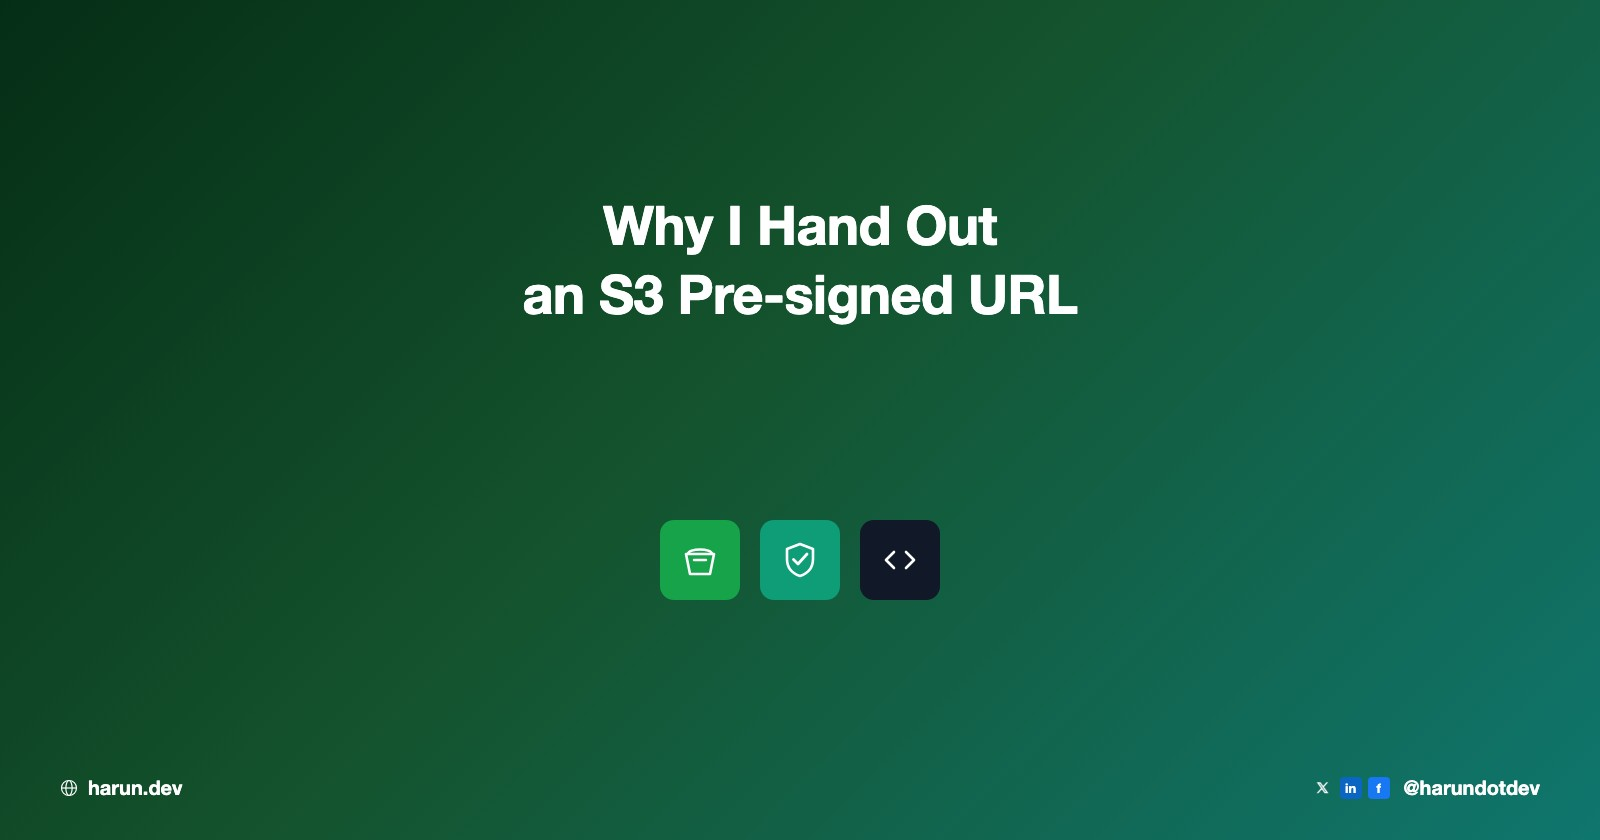
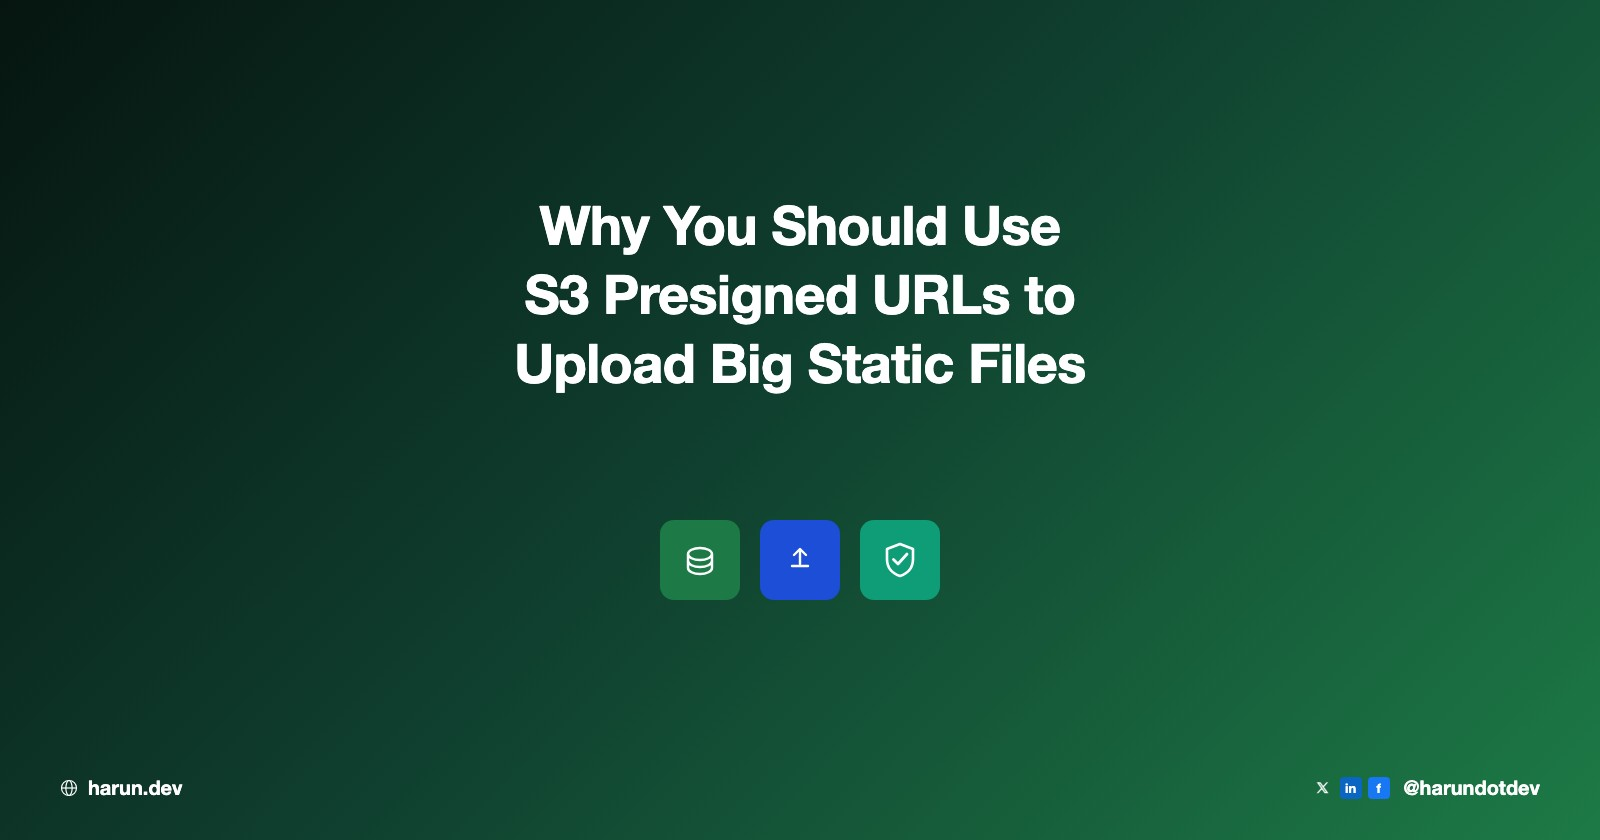
Let readers choose the API request or the big-file upload.
The title is now about uploading big static files, and Browser or API stays selected instead of flipping back after one request.

diff --git a/resources/js/Components/BlogActivities/PresignedUrlActivity.tsx b/resources/js/Components/BlogActivities/PresignedUrlActivity.tsx
@@ -18,70 +18,41 @@ type Beat = {
 
 const SPEEDS = [0.5, 1, 2] as const
 
-const BEATS: Beat[] = [
-  {
-    id: 'direct',
-    actor: 'browser',
-    tone: 'deny',
-    title: 'The upload has no signature',
-    caption: 'The browser tries to PUT 240 MB straight to S3. No signature, so S3 answers 403. The file stays on the device.',
-  },
+const CYCLE: Beat[] = [
   {
     id: 'sign',
     actor: 'api',
     tone: 'sign',
-    title: 'The API signs one PUT',
-    caption: 'The API holds the credentials. It signs one PUT, one key, one Content-Type, and a short expiry. The 240 MB file does not pass through the API.',
+    title: 'The API request signs the PUT',
+    caption: 'You send a PUT. The API holds the credentials and signs one key, one Content-Type, and a short expiry. The 240 MB file does not move.',
   },
   {
     id: 'upload',
     actor: 'browser',
     tone: 'ok',
-    title: 'The file lands on S3',
-    caption: 'The browser uploads those 240 MB to the signed URL. The API is not in the middle. S3 answers 200.',
-  },
-  {
-    id: 'expired',
-    actor: 'browser',
-    tone: 'deny',
-    title: 'The same URL is dead',
-    caption: 'The expiry passed. The browser tries the same upload and S3 answers 403.',
-  },
-  {
-    id: 'public',
-    actor: 'browser',
-    tone: 'ok',
-    title: 'A public bucket stays open',
-    caption: 'With no signature, the browser can still PUT the file, and it could tomorrow too. That is the bucket policy I do not want on a customer export.',
+    title: 'The browser uploads the big file',
+    caption: 'The browser PUTs the 240 MB static file to that URL. The API is not in the middle. S3 answers 200.',
   },
 ]
 
-function nextBeat(landed: Beat[], forced: Actor | null): Beat {
-  if (forced === 'api') {
-    return BEATS[1]
+const BROWSER_DENIED: Beat = {
+  id: 'direct',
+  actor: 'browser',
+  tone: 'deny',
+  title: 'The upload has no signature',
+  caption: 'Browser is selected, and no PUT has been signed yet. S3 answers 403. Choose API to sign the request, then come back.',
+}
+
+function nextBeat(landed: Beat[], choice: 'cycle' | Actor): Beat {
+  if (choice === 'api') {
+    return CYCLE[0]
   }
 
-  if (forced === 'browser') {
-    const sawSign = landed.some((beat) => beat.id === 'sign')
-    const sawUpload = landed.some((beat) => beat.id === 'upload')
-    const sawExpired = landed.some((beat) => beat.id === 'expired')
-
-    if (!sawSign) {
-      return BEATS[0]
-    }
-
-    if (!sawUpload) {
-      return BEATS[2]
-    }
-
-    if (!sawExpired) {
-      return BEATS[3]
-    }
-
-    return BEATS[4]
+  if (choice === 'browser') {
+    return landed.some((beat) => beat.id === 'sign') ? CYCLE[1] : BROWSER_DENIED
   }
 
-  return BEATS[landed.length % BEATS.length]
+  return CYCLE[landed.length % CYCLE.length]
 }
 
 function Packet({ duration, file = false }: { duration: number; file?: boolean }) {
@@ -210,13 +181,13 @@ export default function PresignedUrlActivity() {
   const [auto, setAuto] = useState(false)
   const [speed, setSpeed] = useState<(typeof SPEEDS)[number]>(1)
   const [landed, setLanded] = useState<Beat[]>([])
-  const [forced, setForced] = useState<Actor | null>(null)
+  const [choice, setChoice] = useState<'cycle' | Actor>('cycle')
   const [flight, setFlight] = useState<{ beat: Beat; phase: Phase } | null>(null)
   const hopSeconds = (reducedMotion ? 0.01 : 0.42) / speed
-  const upcoming = nextBeat(landed, forced)
-  const browserHot = flight?.beat.actor === 'browser' || (!flight && (forced === 'browser' || upcoming.actor === 'browser'))
-  const apiHot = flight?.beat.actor === 'api' || (!flight && (forced === 'api' || (forced === null && upcoming.actor === 'api')))
-  const publicObject = flight?.beat.id === 'public' || (!flight && landed[landed.length - 1]?.id === 'public')
+  const upcoming = nextBeat(landed, choice)
+  const activeActor = flight?.beat.actor ?? upcoming.actor
+  const browserSelected = choice === 'browser'
+  const apiSelected = choice === 'api'
   const browserBars = landed.filter((beat) => beat.actor === 'browser')
   const apiBars = landed.filter((beat) => beat.actor === 'api')
   const s3Bars = landed.filter((beat) => beat.actor === 'browser')
@@ -226,7 +197,7 @@ export default function PresignedUrlActivity() {
     : {
         id: 'empty',
         title: 'No requests yet',
-          caption: 'The Browser button uploads the file. The API button signs one PUT. The file stacks on S3 when the upload lands.',
+          caption: 'Pick Browser or API to stay on that side. Leave them and the cycle signs the PUT, then uploads the 240 MB file.',
         durationMs: 1,
       }
 
@@ -254,18 +225,16 @@ export default function PresignedUrlActivity() {
   }, [reducedMotion])
 
   useEffect(() => {
-    if (flight || (!auto && !forced)) {
+    if (flight || (!auto && choice === 'cycle')) {
       return
     }
 
     const timer = window.setTimeout(() => {
-      const beat = nextBeat(landed, forced)
-      setForced(null)
-      setFlight({ beat, phase: 'you' })
-    }, forced ? 40 : 180 / speed)
+      setFlight({ beat: nextBeat(landed, choice), phase: 'you' })
+    }, choice === 'cycle' ? 180 / speed : 40)
 
     return () => window.clearTimeout(timer)
-  }, [auto, flight, forced, landed, speed])
+  }, [auto, choice, flight, landed, speed])
 
   useEffect(() => {
     if (!flight) {
@@ -305,7 +274,7 @@ export default function PresignedUrlActivity() {
   return (
     <div ref={rootRef}>
       <BlogActivityFrame
-        title="Uploading a 240 MB file"
+        title="Uploading a big static file"
         steps={[step]}
         playback={false}
         renderStage={() => (
@@ -326,9 +295,9 @@ export default function PresignedUrlActivity() {
               </div>
 
               <div className={`flex w-48 flex-col items-center rounded-2xl px-4 py-4 text-center text-white ${flight && flight.phase !== 'you' ? 'bg-sky-600' : 'bg-slate-950'}`}>
-                <p className="!my-0 text-xs text-sky-100">{(flight?.beat.actor ?? upcoming.actor) === 'api' ? 'API' : 'Browser'}</p>
+                <p className="!my-0 text-xs text-sky-100">PUT</p>
                 <p className="!my-0 mt-1 text-sm font-semibold leading-5">
-                  {(flight?.beat.actor ?? upcoming.actor) === 'api' ? 'Signs the PUT' : 'Uploads the file'}
+                  {activeActor === 'api' ? 'API request' : 'Upload the file'}
                 </p>
               </div>
 
@@ -359,7 +328,7 @@ export default function PresignedUrlActivity() {
                 />
                 <Column
                   name="S3"
-                  note={publicObject ? 'public' : 'private'}
+                  note="private"
                   hot={flight?.phase === 's3'}
                   count={s3Bars.length}
                   bars={s3Bars}
@@ -377,10 +346,14 @@ export default function PresignedUrlActivity() {
                   <button
                     type="button"
                     data-activity-actor="browser"
-                    aria-pressed={browserHot}
-                    onClick={() => setForced('browser')}
+                    aria-pressed={browserSelected}
+                    onClick={() => setChoice((current) => (current === 'browser' ? 'cycle' : 'browser'))}
                     className={`rounded-full px-3 py-1.5 text-xs font-semibold ${
-                      browserHot ? 'bg-slate-950 text-white' : 'border border-slate-200 text-slate-700'
+                      browserSelected
+                        ? 'bg-slate-950 text-white'
+                        : choice === 'cycle' && activeActor === 'browser'
+                          ? 'border border-sky-500 bg-sky-50 text-sky-950'
+                          : 'border border-slate-200 text-slate-700'
                     }`}
                   >
                     Browser
@@ -388,10 +361,14 @@ export default function PresignedUrlActivity() {
                   <button
                     type="button"
                     data-activity-actor="api"
-                    aria-pressed={apiHot}
-                    onClick={() => setForced('api')}
+                    aria-pressed={apiSelected}
+                    onClick={() => setChoice((current) => (current === 'api' ? 'cycle' : 'api'))}
                     className={`rounded-full px-3 py-1.5 text-xs font-semibold ${
-                      apiHot ? 'bg-slate-950 text-white' : 'border border-slate-200 text-slate-700'
+                      apiSelected
+                        ? 'bg-slate-950 text-white'
+                        : choice === 'cycle' && activeActor === 'api'
+                          ? 'border border-sky-500 bg-sky-50 text-sky-950'
+                          : 'border border-slate-200 text-slate-700'
                     }`}
                   >
                     API
@@ -420,7 +397,7 @@ export default function PresignedUrlActivity() {
                 onClick={() => {
                   setFlight(null)
                   setLanded([])
-                  setForced(null)
+                  setChoice('cycle')
                 }}
               >
                 <svg width="14" height="14" viewBox="0 0 14 14" fill="none" aria-hidden="true">
@@ -429,7 +406,13 @@ export default function PresignedUrlActivity() {
                 </svg>
               </IconButton>
             </div>
-            <p className="!my-0 mt-2 text-xs text-slate-500">Rose on S3 is a rejected upload. The tall green bar is the 240 MB file. Sky on the API is the signed PUT.</p>
+            <p className="!my-0 mt-2 text-xs text-slate-500">
+              {choice === 'api'
+                ? 'API stays selected. Each request signs a PUT. The big file does not move.'
+                : choice === 'browser'
+                  ? 'Browser stays selected. Each request uploads the 240 MB file.'
+                  : 'Full cycle: the API signs the PUT, then the browser uploads the file. Pick Browser or API to stay there.'}
+            </p>
           </div>
         )}
       />

diff --git a/tests/Feature/InteractiveBlogDraftsTest.php b/tests/Feature/InteractiveBlogDraftsTest.php
@@ -31,8 +31,9 @@ class InteractiveBlogDraftsTest extends TestCase
             );
 
             if ($slug === 'why-s3-presigned-urls') {
-                $this->assertStringContainsString('The Browser button uploads the file', $hydrated['content']['html']);
-                $this->assertStringContainsString('The API button signs one PUT', $hydrated['content']['html']);
+                $this->assertSame('Why You Should Use S3 Presigned URLs to Upload Big Static Files', $post['title']);
+                $this->assertStringContainsString('Choose Browser or API and it stays on that side', $hydrated['content']['html']);
+                $this->assertStringContainsString('the API request signs the PUT', $hydrated['content']['html']);
                 $this->assertStringNotContainsString('Who can fetch the object', $hydrated['content']['html']);
                 $this->assertStringNotContainsString('Make the object public', $hydrated['content']['html']);
             }

diff --git a/resources/blog/posts/why-s3-presigned-urls.md b/resources/blog/posts/why-s3-presigned-urls.md
@@ -1,7 +1,7 @@
 ---
-title: "Why I Hand Out an S3 Pre-signed URL"
+title: "Why You Should Use S3 Presigned URLs to Upload Big Static Files"
 slug: "why-s3-presigned-urls"
-brief: "A 240 MB upload, a PUT that works once, and the public bucket that would still accept the file tomorrow."
+brief: "A 240 MB static file, an API request that signs one PUT, and a browser upload that never passes through the API."
 publishedAt: "2099-06-01T18:00:00.000Z"
 draft: true
 draftToken: "9383e96dda32884b6cbeb006fd6c4024"
@@ -19,11 +19,11 @@ tags:
     slug: security
 ---
 
-<p>Someone needed to upload a 240 MB export from a phone. The fast fix was a bucket policy with <code>Principal: "*"</code>. The upload worked. So did every other key in the bucket, for as long as that policy stayed.</p>
+<p>A 240 MB zip, a video, a pile of images. That is a static file. Someone needed it on S3 from a phone. The fast fix was a bucket policy with <code>Principal: "*"</code>. The upload worked. So did every other key in the bucket, for as long as that policy stayed.</p>
 
-<p>A pre-signed URL is the narrower tool. The API signs one PUT. The browser uploads the file straight to S3. The object stays private.</p>
+<p>A pre-signed URL is the narrower tool. The API request signs one PUT. The browser uploads the big file straight to S3. The object stays private.</p>
 
-<p>The figure starts sending when it is on screen. The Browser button uploads the file. The API button signs one PUT. A request leaves you, lights the box it is in, and the file stacks on S3 when the upload lands. Speed and reset sit at the bottom.</p>
+<p>The figure runs that cycle when it is on screen. First the API request signs the PUT. Then the browser uploads the 240 MB file. Choose Browser or API and it stays on that side. Speed and reset sit at the bottom.</p>
 
 <div data-blog-activity="s3-presigned-url"></div>
 
@@ -43,10 +43,10 @@ tags:
 
 <h2>The public object</h2>
 
-<p>The last upload in the loop has no signature because the bucket is public. The browser puts the file on S3 and gets 200, and the next day would too. Block Public Access on the account is there because this fix keeps coming back.</p>
+<p>I do not open the bucket to get a big static file uploaded. A public bucket would accept that PUT tomorrow, and every other key too. Block Public Access on the account is there because this fix keeps coming back.</p>
 
 <p>I still make an object public when it is meant to be public: a cover image, a package on a CDN, something I would put on a website without a login. A customer's export is not that.</p>
 
-<p>The 240 MB file in the figure goes from the browser to S3. The API signs and then gets out of the way. That matters once the file is a few hundred megabytes. Proxying it through a Lambda or a small EC2 box is how you pay for bandwidth twice and time out on the way.</p>
+<p>The 240 MB file in the figure goes from the browser to S3. The API request signs the PUT and then gets out of the way. That matters once the file is a few hundred megabytes. Proxying it through a Lambda or a small EC2 box is how you pay for bandwidth twice and time out on the way.</p>
 
 <p>Hope you enjoyed this one. If a pre-signed PUT has bitten you on <code>Content-Type</code>, find me on X at https://x.com/harundotdev.</p>

diff --git a/.claude/skills/blog-cover-generator/SKILL.md b/.claude/skills/blog-cover-generator/SKILL.md
@@ -78,6 +78,7 @@ recognizable across posts:
   reads as the same idea, so pick one.
 - **IAM / lock-down** — darker purple or near-black square, a padlock glyph.
 - **S3** — green square, a bucket glyph.
+- **Upload** — blue `#1d4ed8` square, an arrow rising off a baseline. Use this for a file leaving the browser, not for a certificate.
 - **DynamoDB** — indigo/blue square, a stacked-disks glyph.
 - **RAG / citations / retrieval** — cyan `#0ea5b9` square, a document page (folded
   corner + 3 text lines) with a magnifier overlapping its bottom-right corner. Fill
